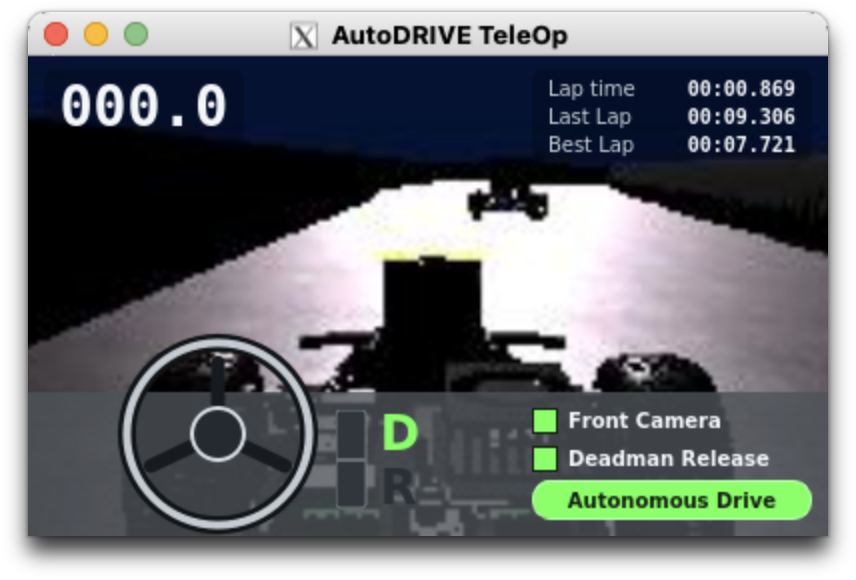
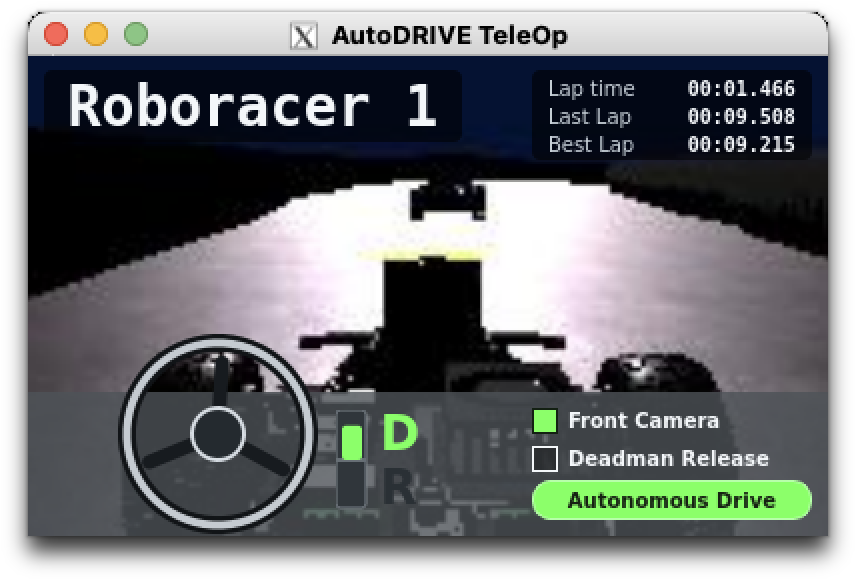
add option --label

diff --git a/README.md b/README.md
@@ -25,6 +25,7 @@ AutoDRIVE command topics by default, with optional F1TENTH-compatible
 - Optional front camera preview from `sensor_msgs/Image`.
 - Optional lap time, last lap, best lap, speed, and collision count display.
 - Configurable vehicle namespace and telemetry topics.
+- Configurable label displayed in the top-left corner of the dashboard.
 - Smooth throttle and steering ramping.
 
 ## Requirements
@@ -110,6 +111,29 @@ Use a different vehicle namespace with `--namespace`:
 
 ```bash
 ./autodrive_teleop.py --ros 2 --namespace /autodrive/roboracer_sagolyuksu
+```
+
+Use `--label` to display a custom string in the top-left corner of the
+dashboard. The default label is `Roboracer 1`:
+
+```bash
+./autodrive_teleop.py --ros 2 --label "Roboracer 1 - F1TENTH Model"
+```
+
+This is especially useful when running multiple RoboRacer instances. Assign a
+label that identifies the software or model used by each instance so that the
+dashboard windows can be distinguished at a glance:
+
+```bash
+./autodrive_teleop.py \
+  --ros 2 \
+  --namespace /autodrive/roboracer_1 \
+  --label "Pure Pursuit"
+
+./autodrive_teleop.py \
+  --ros 2 \
+  --namespace /autodrive/roboracer_2 \
+  --label "RL Model"
 ```
 
 The AutoDRIVE bridge or simulator must subscribe to the same command topics. If
